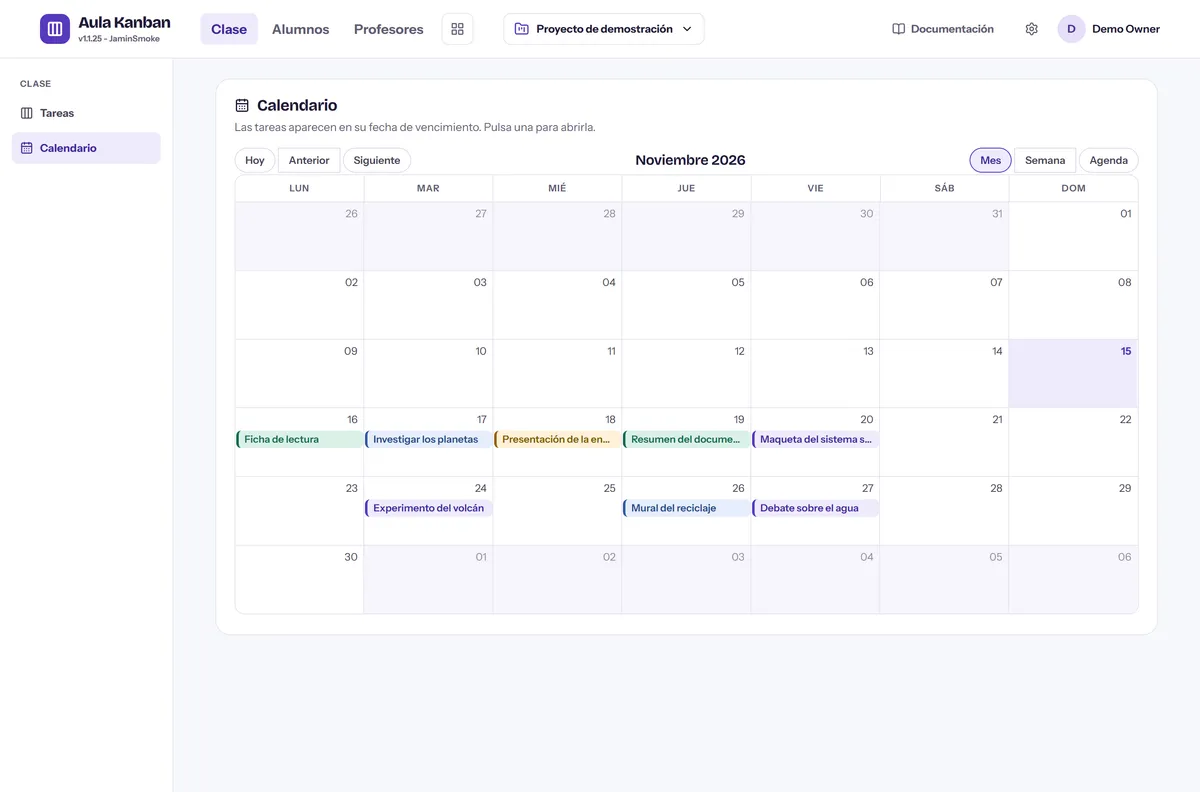
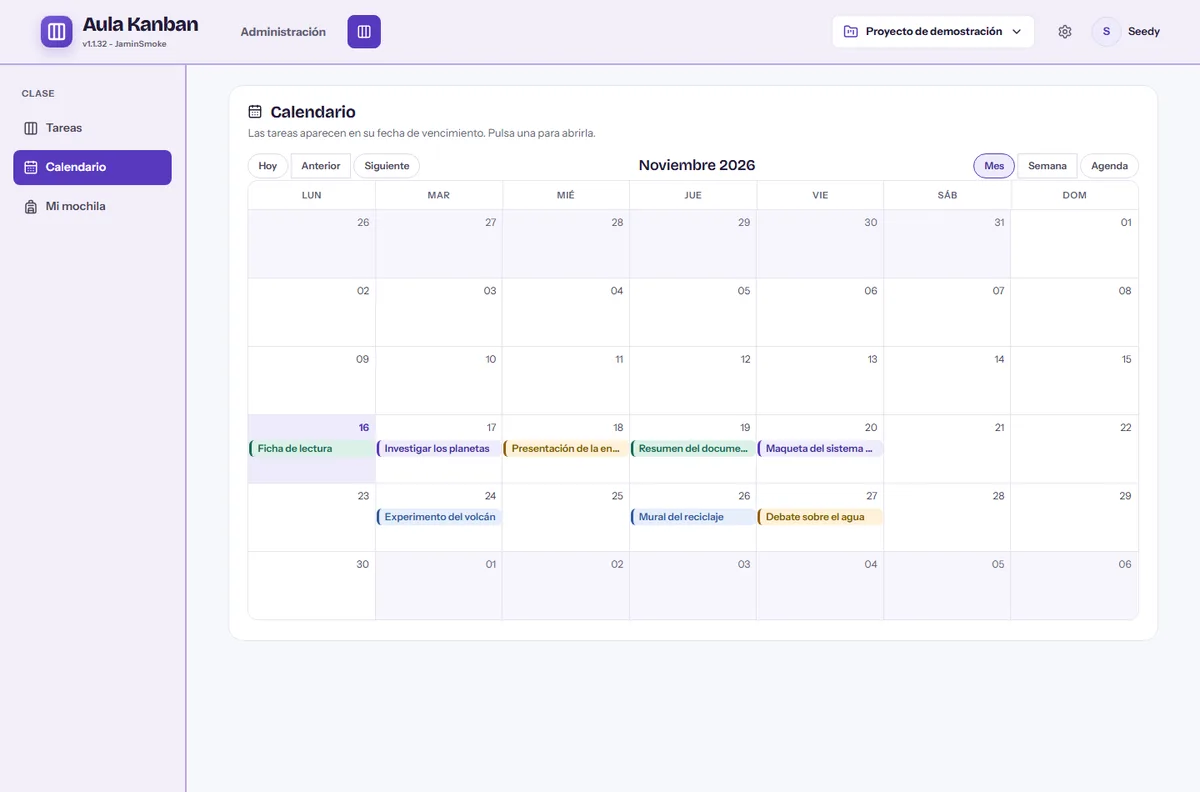
feat(PROMO-03 fase 2): capturas actuales y textos de la ayuda

diff --git a/app/board/docs/content/workspace.ts b/app/board/docs/content/workspace.ts
@@ -45,7 +45,6 @@ export const workspaceSections: DocSection[] = [
         ],
       },
       { type: "note", tone: "info", text: "Cerrar una ventana no borra nada: lo guardado sigue en el proyecto y vuelve a aparecer al abrir la aplicación otra vez." },
-      { type: "image", src: "/capturas/espacio.webp", alt: "Tienda con las cinco aplicaciones instaladas y el botón de Aula Store", caption: "Tienda con Excalidraw, Calculadora, Tabla periódica, Programación por bloques y Diagramas instaladas." },
       {
         type: "steps",
         items: [
@@ -55,6 +54,7 @@ export const workspaceSections: DocSection[] = [
           "Pulsa «Instalar» o «Desinstalar». Solo el propietario o un administrador puede hacerlo, y el cambio vale para todos los miembros.",
         ],
       },
+      { type: "image", src: "/capturas/espacio.webp", alt: "Aula Store abierto con las cinco aplicaciones instaladas y el filtro Instaladas activo", caption: "Aula Store en Administración > Tienda: las cinco aplicaciones del proyecto aparecen como instaladas y se pueden abrir, desinstalar o consultar en Detalles." },
       { type: "note", tone: "info", text: "Instalar o desinstalar una aplicación solo registra su estado en Tienda: no borra paquetes ni datos, y las pizarras de las tareas no se ven afectadas. Al desinstalar, Aula Store pide confirmación." },
       {
         type: "definitions",

diff --git a/app/board/docs/content/tasks.ts b/app/board/docs/content/tasks.ts
@@ -44,7 +44,7 @@ export const taskSections: DocSection[] = [
     title: "Calendario de Clase",
     lead: "Dentro de Clase, la sección Calendario coloca cada tarea en su fecha de entrega y la muestra en vista de mes, semana o agenda. Una tarea sin fecha no aparece: el calendario no inventa días.",
     blocks: [
-      { type: "image", src: "/capturas/calendario.webp", alt: "Calendario de noviembre de 2026 con las fechas de entrega del proyecto de demostración", caption: "El mismo proyecto en Calendario: cada tarea en su fecha de entrega, en vista de mes." },
+      { type: "image", src: "/capturas/calendario.webp", alt: "Calendario del mes con las fechas de entrega del proyecto de demostración", caption: "El mismo proyecto en Calendario: cada tarea en su fecha de entrega, en vista de mes." },
       {
         type: "steps",
         items: [

diff --git a/docs/developing/roadmap.md b/docs/developing/roadmap.md
@@ -52,11 +52,12 @@
 - **Criterios de aceptación:** el dry-run muestra el plan sin escribir; la primera ejecución crea exactamente los datos previstos; la segunda no duplica ni pisa datos ajenos; cualquier URL remota se rechaza antes de abrir una conexión.
 - **Verificación:** `npm run seed:demo -- --base-url http://127.0.0.1:8792 --dry-run` mostró el plan sobre una D1 limpia; la siembra dejó 1 proyecto, 6 alumnos, 2 profesores, 8 tareas (2 por columna), 15 asignaciones, 5 apps, 1 pizarra y 2 documentos; la tercera ejecución respondió «sin cambios». `http://192.168.1.10:5173` se rechazó antes de conectar. La D1 de prueba se creó con `--persist-to` temporal fuera del repositorio.
 
-### Fase 2: Capturas actuales y textos — pendiente
-- [ ] Capturar las cuatro vistas del proyecto de demo a 1200 px y WebP, con la cabecera actual, el escritorio de apps y sin datos reales ni tokens.
-- [ ] Recortar Ajustes a Cuenta, revisar el contraste del calendario y comprobar que las cinco apps aparecen instaladas.
-- [ ] Actualizar `alt`, pies y referencias en la ayuda; revisar las cuatro imágenes a tamaño completo y a 600 px de ancho.
+### Fase 2: Capturas actuales y textos — completada (2026-11-16)
+- [x] Capturar las cuatro vistas del proyecto de demo a 1200 px y WebP, con la cabecera actual, el escritorio de apps y sin datos reales ni tokens.
+- [x] Recortar Ajustes a Cuenta, revisar el contraste del calendario y comprobar que las cinco apps aparecen instaladas.
+- [x] Actualizar `alt`, pies y referencias en la ayuda; revisar las cuatro imágenes a tamaño completo y a 600 px de ancho.
 - **Criterios de aceptación:** las cuatro rutas de `public/capturas/` responden y pesan menos de 50 KB; las capturas coinciden con la UI servida; la ayuda no menciona una app, cabecera o fecha que ya no aparezca; `content-coverage.test.ts` pasa.
+- **Verificación:** capturas tomadas con Chrome headless a 1440×950 (tema claro) contra el servidor de desarrollo en `127.0.0.1:5173` sembrado con el proyecto `22222222-…`, y escaladas a 1200 px. Pesos: `tareas.webp` 44.788 B, `calendario.webp` 25.352 B, `espacio.webp` 44.506 B y `ajustes.webp` 20.304 B (1200×792 salvo Ajustes, 1200×421 recortado a Cuenta). Las cuatro rutas responden `200 image/webp`. La ayuda se revisó a 1200 y 390 px: las imágenes no desbordan y los pies nuevos se leen. `content-coverage.test.ts` pasa.
 
 ### Fase 3: Verificación y cierre — pendiente
 - [ ] Ejecutar la siembra desde una D1 local limpia y repetirla; comprobar el proyecto con la app servida en local, sin tocar Sites.
@@ -83,3 +84,5 @@
 - 2026-11-16: el servidor de desarrollo está en `http://localhost:5173`; no se publica ni se modifica la versión `1.1.32`.
 - 2026-11-16: la fase 1 usa el proyecto fijo `22222222-2222-4222-8222-222222222222`, distinto del `11111111-…` de `perf-latency.mjs`. La demo antigua sembrada a mano en la D1 local no se borra ni se modifica; la semilla nueva se validó en una D1 temporal limpia.
 - 2026-11-16: la instalación de las cinco apps se hace por `POST /api/space-apps?project=…`; no hace falta tocar `instance_apps` con SQL directo.
+- 2026-11-16: la semilla enviaba solo las cabeceras `oai-authenticated-user-*`, pero el servidor de desarrollo las descarta y exige la cookie `__sites_local_auth=1`; se añade la cookie para que el flujo documentado (`npm run dev` + `npm run seed:demo`) funcione sin 401.
+- 2026-11-16: la captura de Tienda muestra Aula Store abierto con el filtro «Instaladas» (5), porque el escritorio vacío no demuestra la instalación; la imagen se coloca tras los pasos de la tienda y su pie ya no depende del mes.

diff --git a/README.md b/README.md
@@ -363,7 +363,7 @@ npm run seed:demo -- --dry-run
 npm run seed:demo
 ```
 
-`scripts/seed-demo.mjs` solo acepta `localhost` o `127.0.0.1` y rechaza cualquier URL remota antes de abrir una conexión. Crea o actualiza el proyecto fijo `22222222-2222-4222-8222-222222222222` con seis alumnos, dos profesores, ocho tareas repartidas en las cuatro columnas (25 % completadas), las cinco apps instaladas, una pizarra, un diagrama y un programa de bloques. Es seguro repetirlo: no duplica tareas ni fichas y no toca otros proyectos. Usa las cabeceras de la sesión local de desarrollo (`local_seedy`), así que no necesita una cuenta real ni tokens. **No lo ejecutes contra producción ni cambies `--local` por `--remote`:** sembrar la D1 remota requiere autorización y la ejecuta Codex.
+`scripts/seed-demo.mjs` solo acepta `localhost` o `127.0.0.1` y rechaza cualquier URL remota antes de abrir una conexión. Crea o actualiza el proyecto fijo `22222222-2222-4222-8222-222222222222` con seis alumnos, dos profesores, ocho tareas repartidas en las cuatro columnas (25 % completadas), las cinco apps instaladas, una pizarra, un diagrama y un programa de bloques. Es seguro repetirlo: no duplica tareas ni fichas y no toca otros proyectos. Usa la sesión local de desarrollo (la cookie `__sites_local_auth` y las cabeceras `local_seedy`), así que no necesita una cuenta real ni tokens. **No lo ejecutes contra producción ni cambies `--local` por `--remote`:** sembrar la D1 remota requiere autorización y la ejecuta Codex.
 
 Para un cambio nuevo:
 
